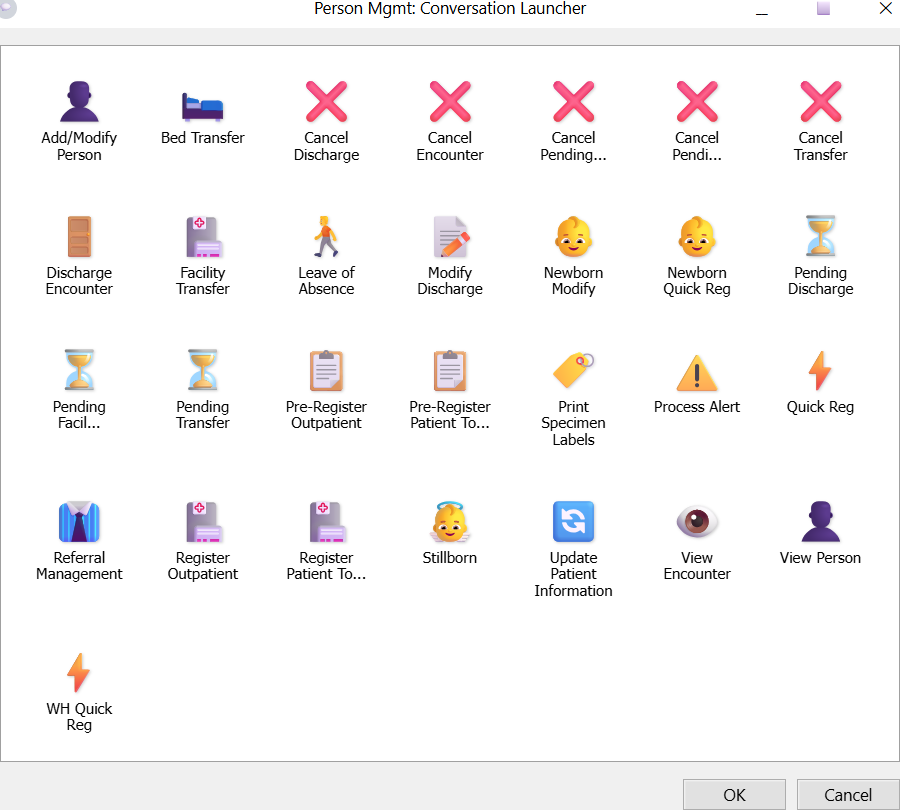
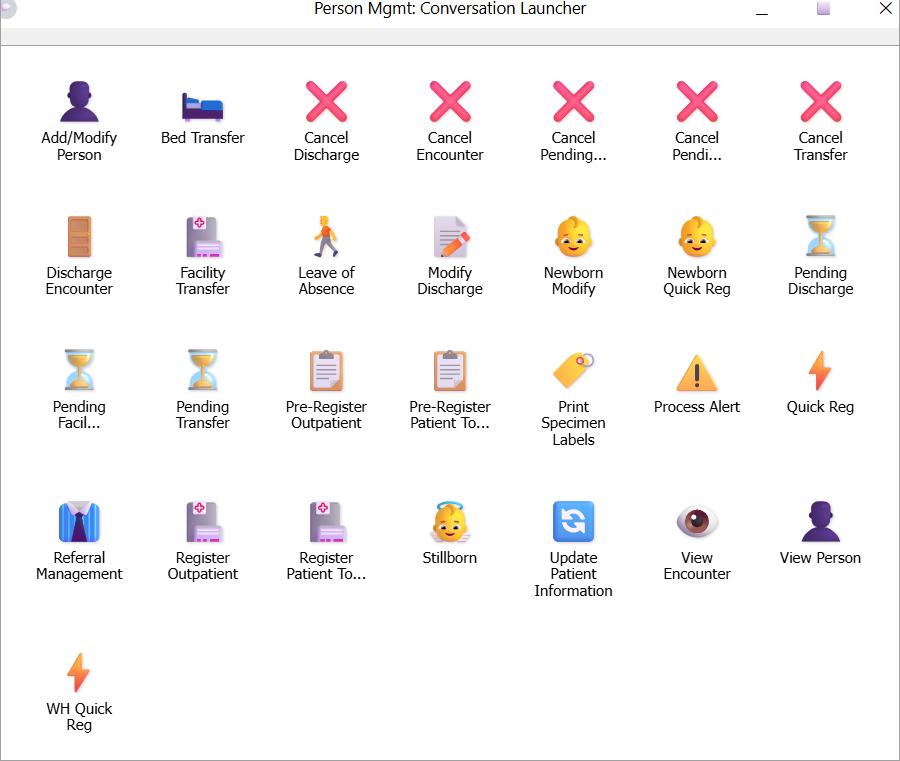
fix: remove bottom footer bar containing OK and Cancel buttons from Quick Panel dialog

diff --git a/axiovital-frontend/AxioVital.Desktop/Views/MainPage.xaml b/axiovital-frontend/AxioVital.Desktop/Views/MainPage.xaml
@@ -541,11 +541,11 @@
 
     <!-- ==================== 8. QUICK PANEL OVERLAY (Ctrl+Q) ==================== -->
     <Grid x:Name="QuickPanelOverlay" Grid.RowSpan="8" Background="#40000000" Visibility="Collapsed" Canvas.ZIndex="100">
-        <Grid HorizontalAlignment="Center" VerticalAlignment="Center" Width="720" Height="648">
-            <!-- 1:1 Pixel-Perfect Replica Image of Conversation Launcher -->
+        <Grid HorizontalAlignment="Center" VerticalAlignment="Center" Width="720" Height="608">
+            <!-- 1:1 Pixel-Perfect Replica Image of Conversation Launcher (Without Footer) -->
             <Image Source="ms-appx:///Assets/quick_panel_dialog_cropped.png" 
                    Width="720" 
-                   Height="648" 
+                   Height="608" 
                    Stretch="Uniform" />
 
             <!-- Interactive Click Handlers Overlay -->
@@ -553,20 +553,6 @@
             <Button Width="40" Height="30" 
                     HorizontalAlignment="Right" VerticalAlignment="Top" 
                     Margin="0,0,0,0" 
-                    Background="Transparent" BorderThickness="0" 
-                    Click="OnQuickPanelCloseClicked" />
-
-            <!-- Bottom Right OK Button -->
-            <Button Width="90" Height="32" 
-                    HorizontalAlignment="Right" VerticalAlignment="Bottom" 
-                    Margin="0,0,105,10" 
-                    Background="Transparent" BorderThickness="0" 
-                    Click="OnQuickPanelCloseClicked" />
-
-            <!-- Bottom Right Cancel Button -->
-            <Button Width="90" Height="32" 
-                    HorizontalAlignment="Right" VerticalAlignment="Bottom" 
-                    Margin="0,0,10,10" 
                     Background="Transparent" BorderThickness="0" 
                     Click="OnQuickPanelCloseClicked" />
         </Grid>
